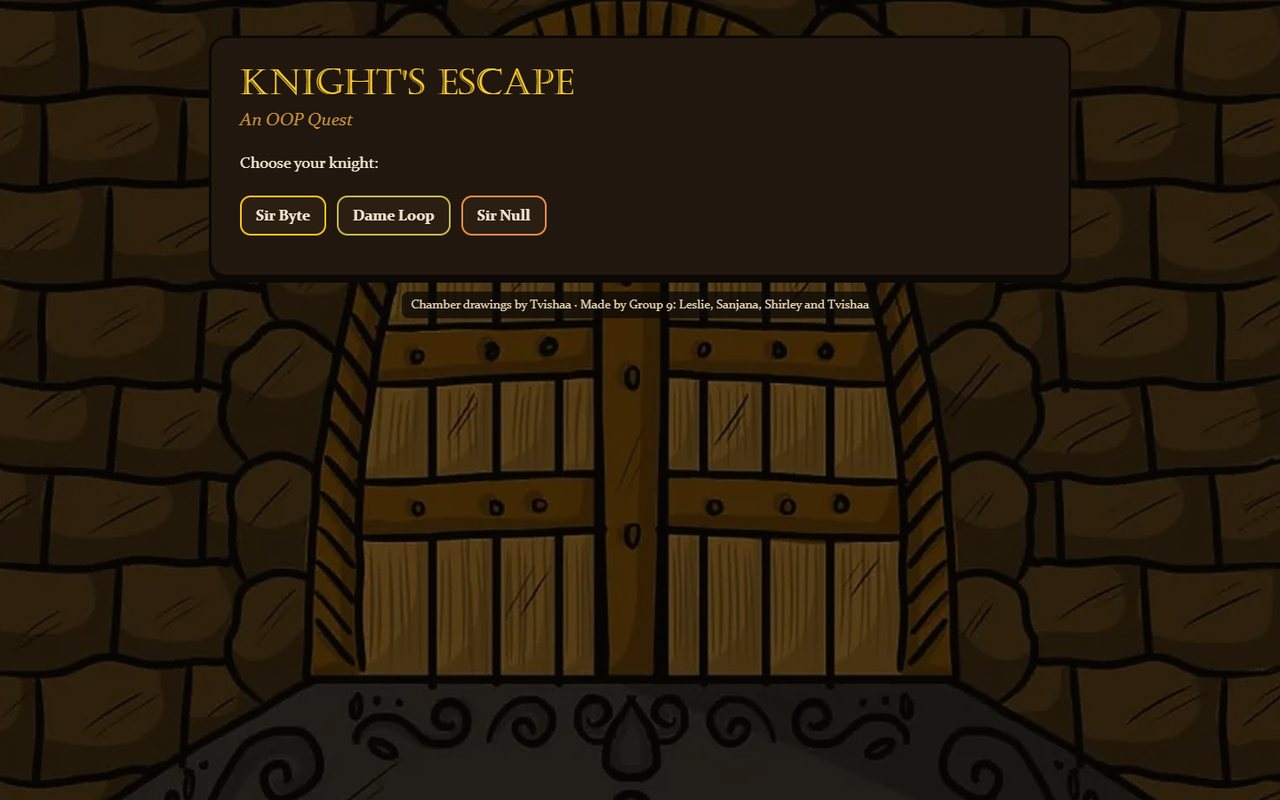
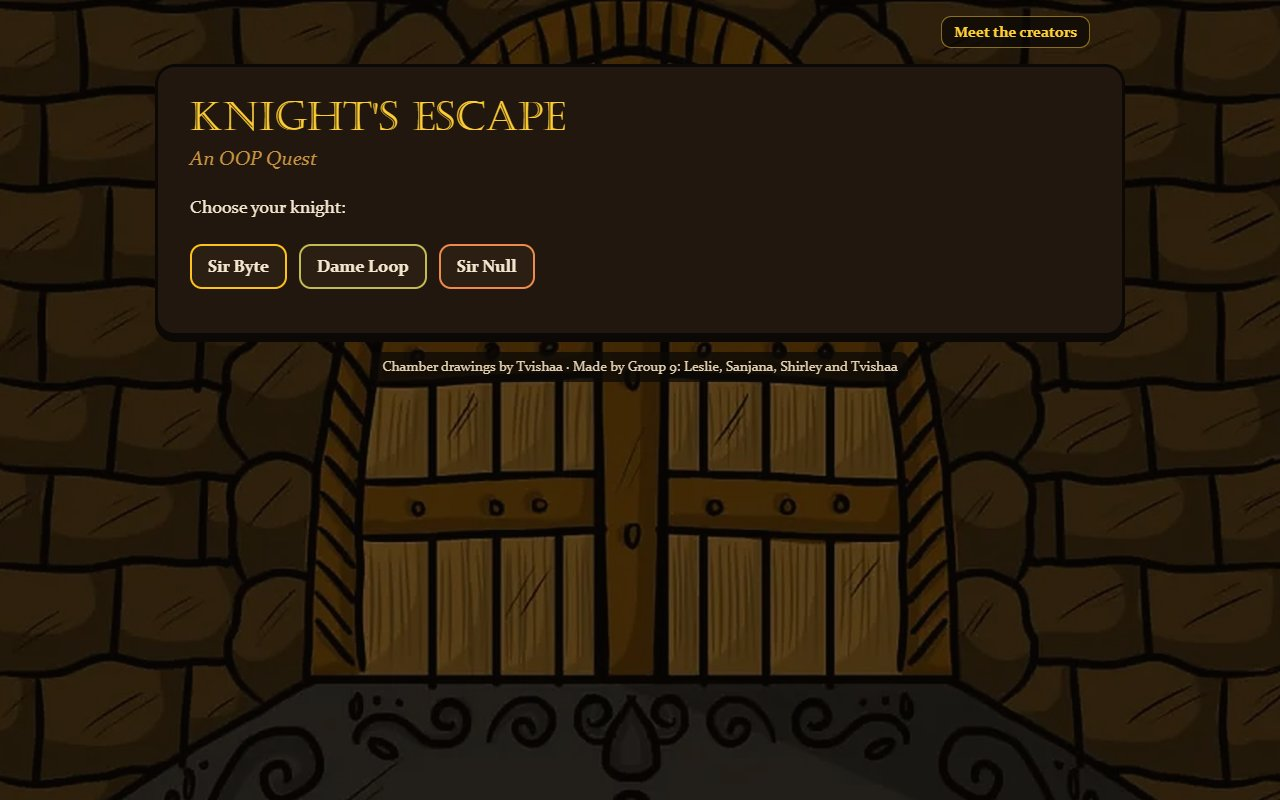
Ready for GitHub Pages: clean up files, README leads with the title screen
- Remove the original sketch/drawing uploads (IMG_*.webp, now in art/ and
  docs/img/) and the unused UCF seal.
- Add .nojekyll so GitHub Pages serves the site as plain files.
- README: title screen as the front image with a Play link, a Meet the
  creators section with the team roles (Design team, Dev team, Project
  lead), about.js in the file table, font fallback note.

diff --git a/README.md b/README.md
@@ -15,7 +15,13 @@ Knight's Escape is a browser escape room that teaches Java object-oriented progr
   <img src="https://img.shields.io/badge/Art-hand--drawn-37260A?style=for-the-badge" alt="Hand-drawn art">
 </p>
 
-![The Hall of Illusions: the Java code for each choice sits on Tvishaa's three drawn doors in green, purple and teal, under a framed question](docs/img/hall.jpg)
+![The title screen: Knight's Escape, An OOP Quest, with Sir Byte, Dame Loop and Sir Null to choose from, over Tvishaa's drawing of the castle door](docs/img/start.jpg)
+
+## Play it
+
+**▶ [Play Knight's Escape](https://kateye31.github.io/Knights-Escape.-An-OOP-Quest/)** in your browser. Nothing to install, and it works on phones.
+
+Or download this repo and open `index.html`. It runs offline too.
 
 ### Every chamber opens on Tvishaa's drawing
 
@@ -51,10 +57,6 @@ Tvishaa planned every screen on paper first: the Maze door, the maze layout with
 
 ![Tvishaa's planning sketches in red pencil: the Maze door, the warlock's staff, an ornate question box, the Chamber 1 maze layout with a question box and left/right buttons, the Alchemy Lab, the Hall of Illusions with a code display on each door, the warlock at the Final Door, and a torch-lit tunnel for the opening screen](docs/img/tvishaa-sketches.jpg)
 
-## Play it
-
-Download or clone this repo and open `index.html` in any browser. There's nothing to install and no internet needed.
-
 ## The quest
 
 | | Chamber | What you do | OOP concept |
@@ -71,12 +73,12 @@ Difficulty sets your hints per chamber: **Squire** 3, **Knight** 2, **Champion**
 
 <table>
   <tr>
-    <td width="50%"><img src="docs/img/start.jpg" alt="Title screen: Knight's Escape, An OOP Quest, with three knight buttons, over a drawing of a wooden castle door"></td>
     <td width="50%"><img src="docs/img/intro.jpg" alt="The warlock's welcome speech inside a gold question box with a hand-drawn spiral on each side"></td>
+    <td width="50%"><img src="docs/img/hall.jpg" alt="The Hall of Illusions: the Java code for each choice sits on Tvishaa's three drawn doors in green, purple and teal"></td>
   </tr>
   <tr>
-    <td><b>Choose your knight.</b></td>
     <td><b>The warlock's welcome,</b> in her question-box frame.</td>
+    <td><b>The Hall of Illusions.</b> The code sits on her doors.</td>
   </tr>
   <tr>
     <td><img src="docs/img/maze.jpg" alt="LabyrinthLearn turn 1: the knight's dot at Tvishaa's number 1 with a dashed trail from Start, a code question in the framed box, answer buttons with hand-drawn arrows, a hint, and the warlock explaining the wrong answer"></td>
@@ -106,25 +108,27 @@ Difficulty sets your hints per chamber: **Squire** 3, **Knight** 2, **Champion**
 
 <p align="center"><img src="docs/img/phone.jpg" width="560" alt="The game on three phone screens: the Chamber 1 title card with the Maze door, the maze with the knight at number 1 and drawn-arrow buttons, and the Hall doors with the code listed underneath"><br><b>Works on phones too.</b></p>
 
-## Who made what
+## Meet the creators
 
-We're Group 9 (Girls Who Code, Project 9): four students and a mentor.
+The game has a **Meet the creators** page (top right of the game, or at the end of your quest): who we are, where each of us started, what we built, and the story from our first brainstorm to the final game. It fades in through black and drops you back exactly where you left your quest.
 
-| | What she built |
-| --- | --- |
-| **Tvishaa** · Design | The game design (the Group 9 design roadmap: a warlock, four chambers), **every drawing in the game** (the Maze door, the maze, the alchemy lab, the three doors and the warlock), and the **planning sketches** that set where everything goes on screen. The game's colors come from her art. |
-| **Shirley** · Design | The **page animations**: buttons lift when you point at them. She also designed the light fall look we compared against at the final meeting. |
-| **Sanjana** · Build + content | The **OOP research** the chambers follow. LabyrinthLearn turns 3–5 (constructors, references, methods), **wrong-answer explanations**, the maze counter, and **keys as flashcards**. |
-| **Leslie** · Build + content | The **Alchemy Lab spell** (*"Squire doing king's work,"* ending on encapsulation), renaming the maze to LabyrinthLearn, the **mistake counter**, and the **weak-spot scroll** on the escape screen. |
-| **Katrina** · Mentor | Starter code, task guides and code reviews. |
+![Meet the creators: the core team as equal cards. Tvishaa (Design team) with her warlock drawing, Shirley (Design team) with her light fall design, then Leslie and Sanjana (Dev team) with Tvishaa's lab and maze drawings](docs/img/team.jpg)
 
-The team picked the name, the colors and the look together in Council votes on our team board.
+| | Role | What she built |
+| --- | --- | --- |
+| **Tvishaa** | Design team | The game design, mapped in Figma (a warlock, four chambers, how each one plays), **every drawing in the game**, and the **planning sketches** that set where everything goes. Her vote made it an escape room. The game's colors come from her art. |
+| **Shirley** | Design team | The **page animations**: buttons and the Hall doors lift when you point at them. Plus the light fall look we compared at the final meeting. |
+| **Leslie** | Dev team | The **Alchemy Lab spell** (*"Squire doing king's work,"* ending on encapsulation), the name LabyrinthLearn, the **mistake counter** and the **weak-spot scroll**. |
+| **Sanjana** | Dev team | The **OOP research** the chambers follow, LabyrinthLearn turns 3–5, **wrong-answer explanations**, the maze counter, and **keys as flashcards**. |
+| **Katrina** | Project lead | Starter code, task guides and code reviews. |
+
+We're Group 9, Project 9 with Girls Who Code at UCF. We picked the name, the colors and the look together in votes at our meetings.
 
 ## Design
 
 - **Art:** all five scenes are Tvishaa's own drawings (in [`art/`](art/)). Each chamber opens on a title card with her full drawing, then the puzzle plays out on top of it. The maze arrows and the door-knob spiral are cut from her drawings too. The files are cleanly upscaled 2× so they stay sharp on big screens, and they always keep their own shape (never stretched).
 - **Colors:** pulled straight from her drawings: brick and wood browns, maze-coin gold, hedge green, and the green, purple and teal of her three Hall doors, which the code doors match.
-- **Fonts:** Microsoft fonts that come with Windows and Office. **Castellar** (carved capitals) for big titles, **Constantia** for reading, **Cascadia Mono** / Consolas for code.
+- **Fonts:** Microsoft fonts that come with Windows and Office. **Castellar** (carved capitals) for big titles, **Constantia** for reading, **Cascadia Mono** / Consolas for code. On computers without them (most Macs and phones), titles and text fall back to Georgia.
 - **Motion:** Shirley's hover lift on every button, a quiet crossfade from each title card into its chamber, the knight walking the maze, the cauldron bubbling and the Hall doors fading. All of it turns off for anyone whose computer asks for reduced motion (the knight just appears at its next stop).
 
 ## How the code works
@@ -135,8 +139,9 @@ The team picked the name, the colors and the look together in Council votes on o
 | [`scenes.js`](scenes.js) | Tvishaa's drawings and what happens on them: the title cards, the knight's route through her maze, the cauldron, the code on the Hall doors and the warlock's keyholes. |
 | [`game.js`](game.js) | How the screens work: one function per screen, plus hints, taunts, keys and the escape screen. It calls the helpers in `scenes.js`. |
 | [`style.css`](style.css) | Colors (the `:root` block at the top), fonts, layout, the chamber backgrounds, the scene effects, and Shirley's animations. |
-| [`index.html`](index.html) | The page itself, plus the title card. Loads `rooms.js`, `scenes.js` and `game.js`, in that order. |
-| [`art/`](art/) | Tvishaa's drawings (`tvishaa-*.jpg`), plus the arrows and spiral cut from them. |
+| [`about.js`](about.js) | The **Meet the creators** page: the fade through black between it and the game, and picking your quest back up. |
+| [`index.html`](index.html) | The page itself: the game, the title card and the Meet the creators page. Loads `rooms.js`, `scenes.js`, `game.js` and `about.js`. |
+| [`art/`](art/) | Tvishaa's drawings (`tvishaa-*.jpg`) and Figma roadmap, the arrows and spiral cut from her drawings, Shirley's design screenshot, and the Girls Who Code UCF logo. |
 | [`docs/`](docs/) | The [team guide](docs/TEAM-GUIDE.md) (setup, git, how to write a puzzle), the [welcome page](docs/WELCOME.md) and README screenshots. |
 
 Every puzzle is plain data, so adding one means copying a block in `rooms.js`:
